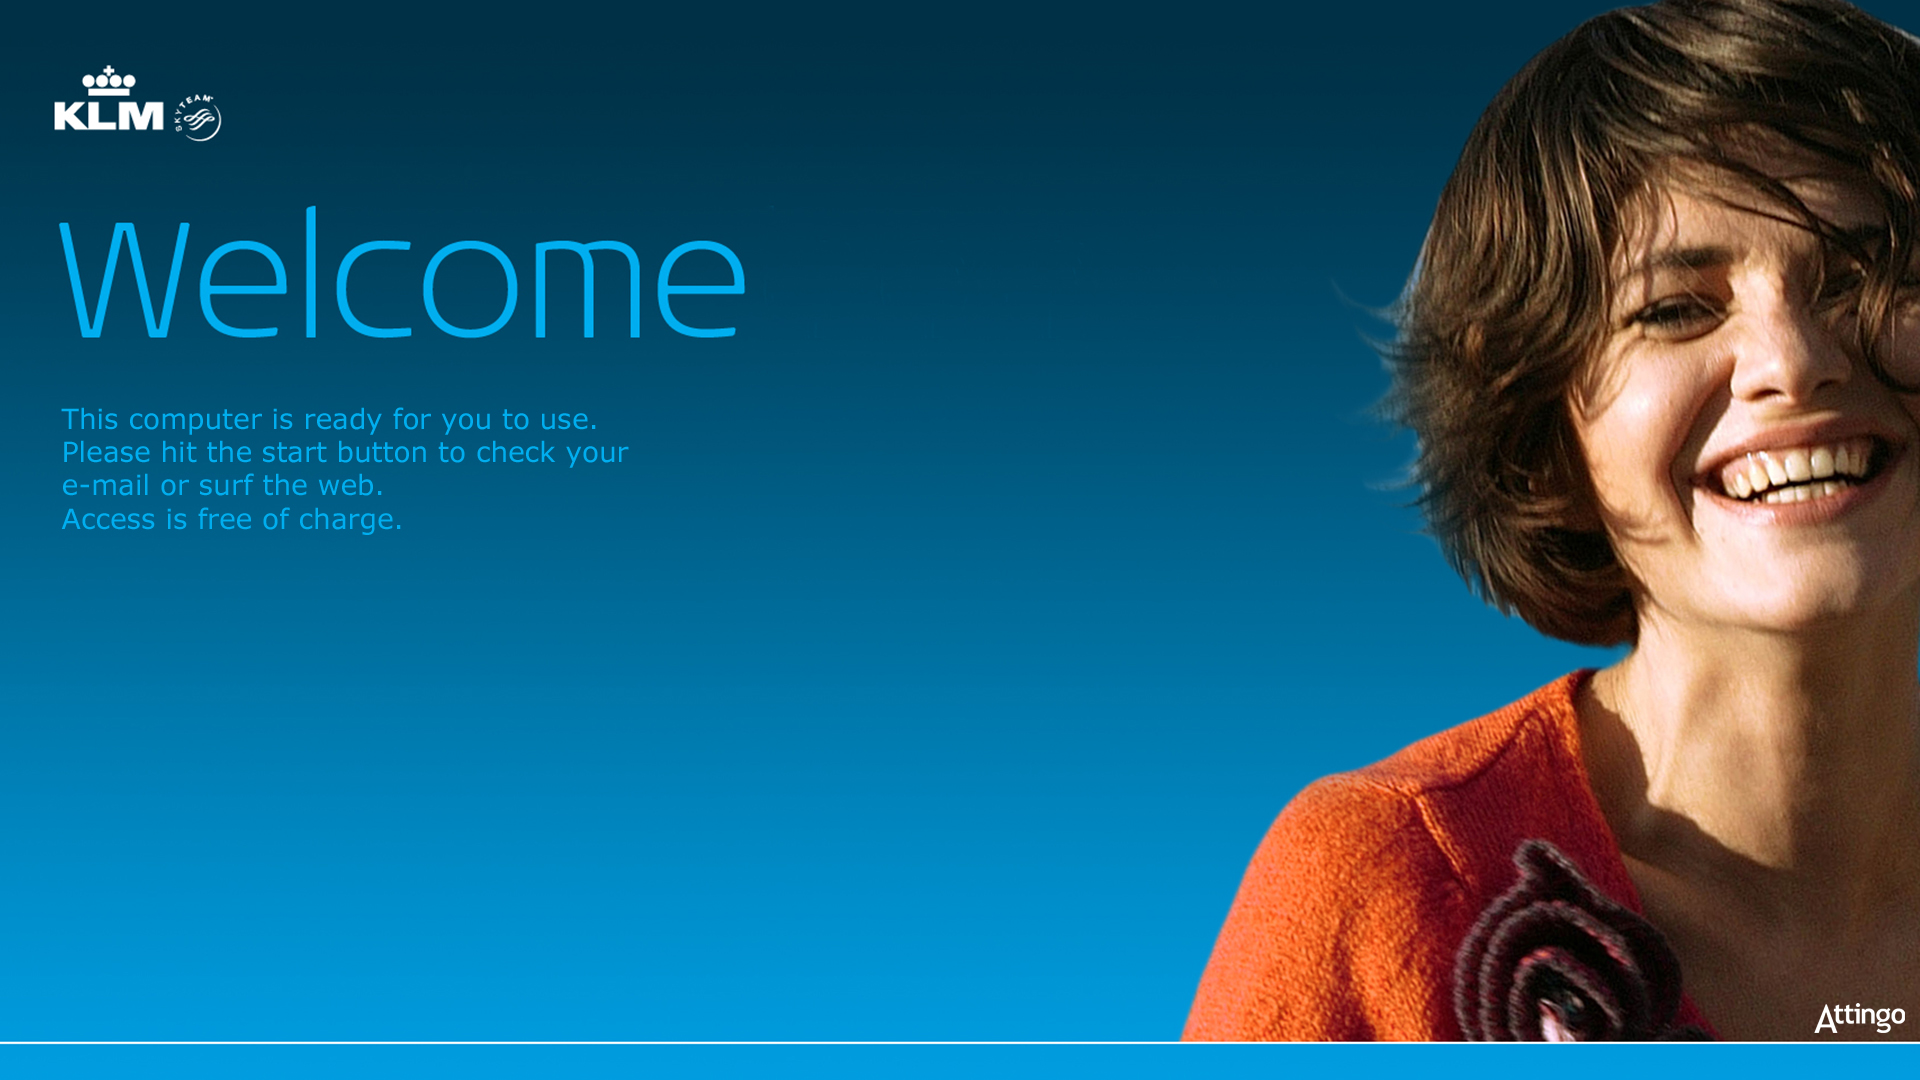
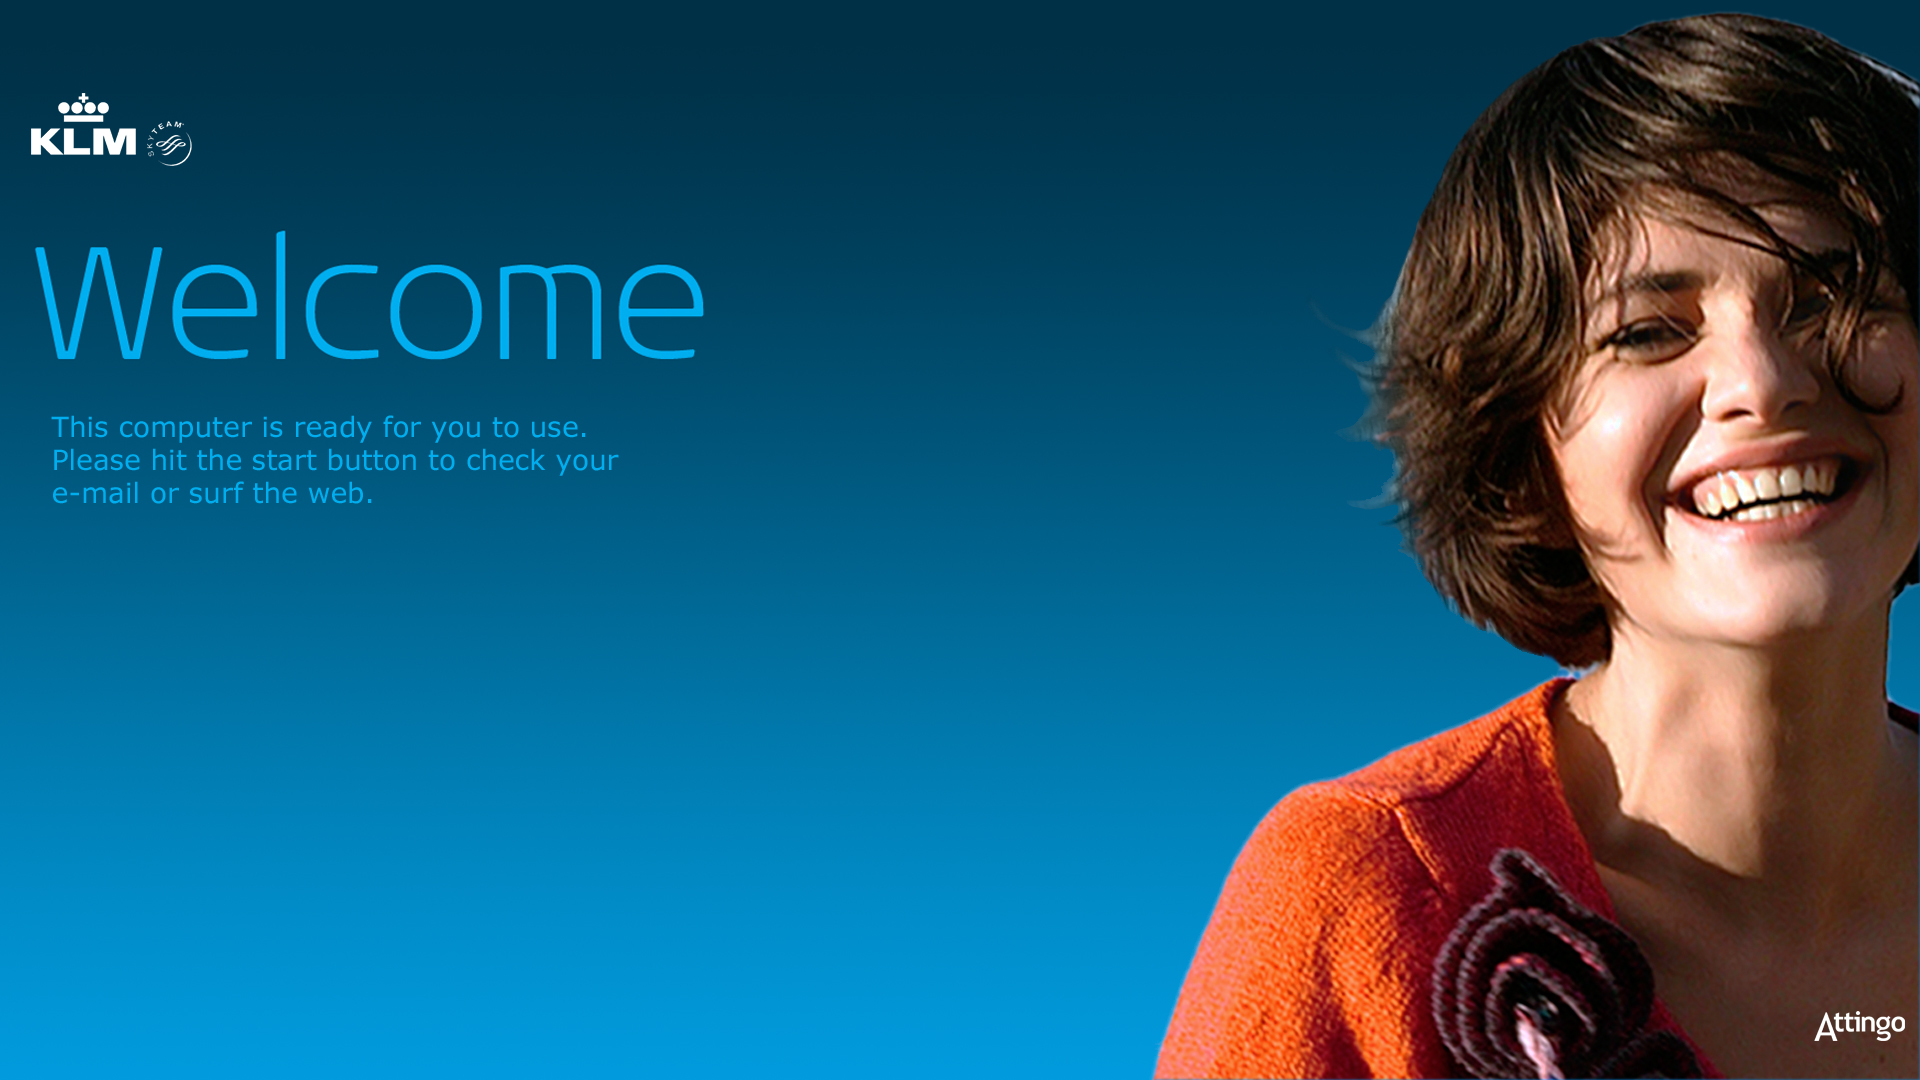
Improve welcome page styling.

diff --git a/src/welcome/welcomewindow.cc b/src/welcome/welcomewindow.cc
@@ -2,12 +2,12 @@
 #include "welcomewindow.hh"
 
 WelcomeWindow::WelcomeWindow() :
-	alignment(Gtk::ALIGN_CENTER, Gtk::ALIGN_CENTER, 0, 0),
+	alignment(0.025, 0.75, 0, 0),
 	login_button()
 {
 	auto screen = Gdk::Screen::get_default();
 
-	// For situationsn without a window manager
+	// For situations without a window manager
 	move(0, 0);
 	resize(screen->get_width(), screen->get_height());
 	// Just in case we do have a window manager
